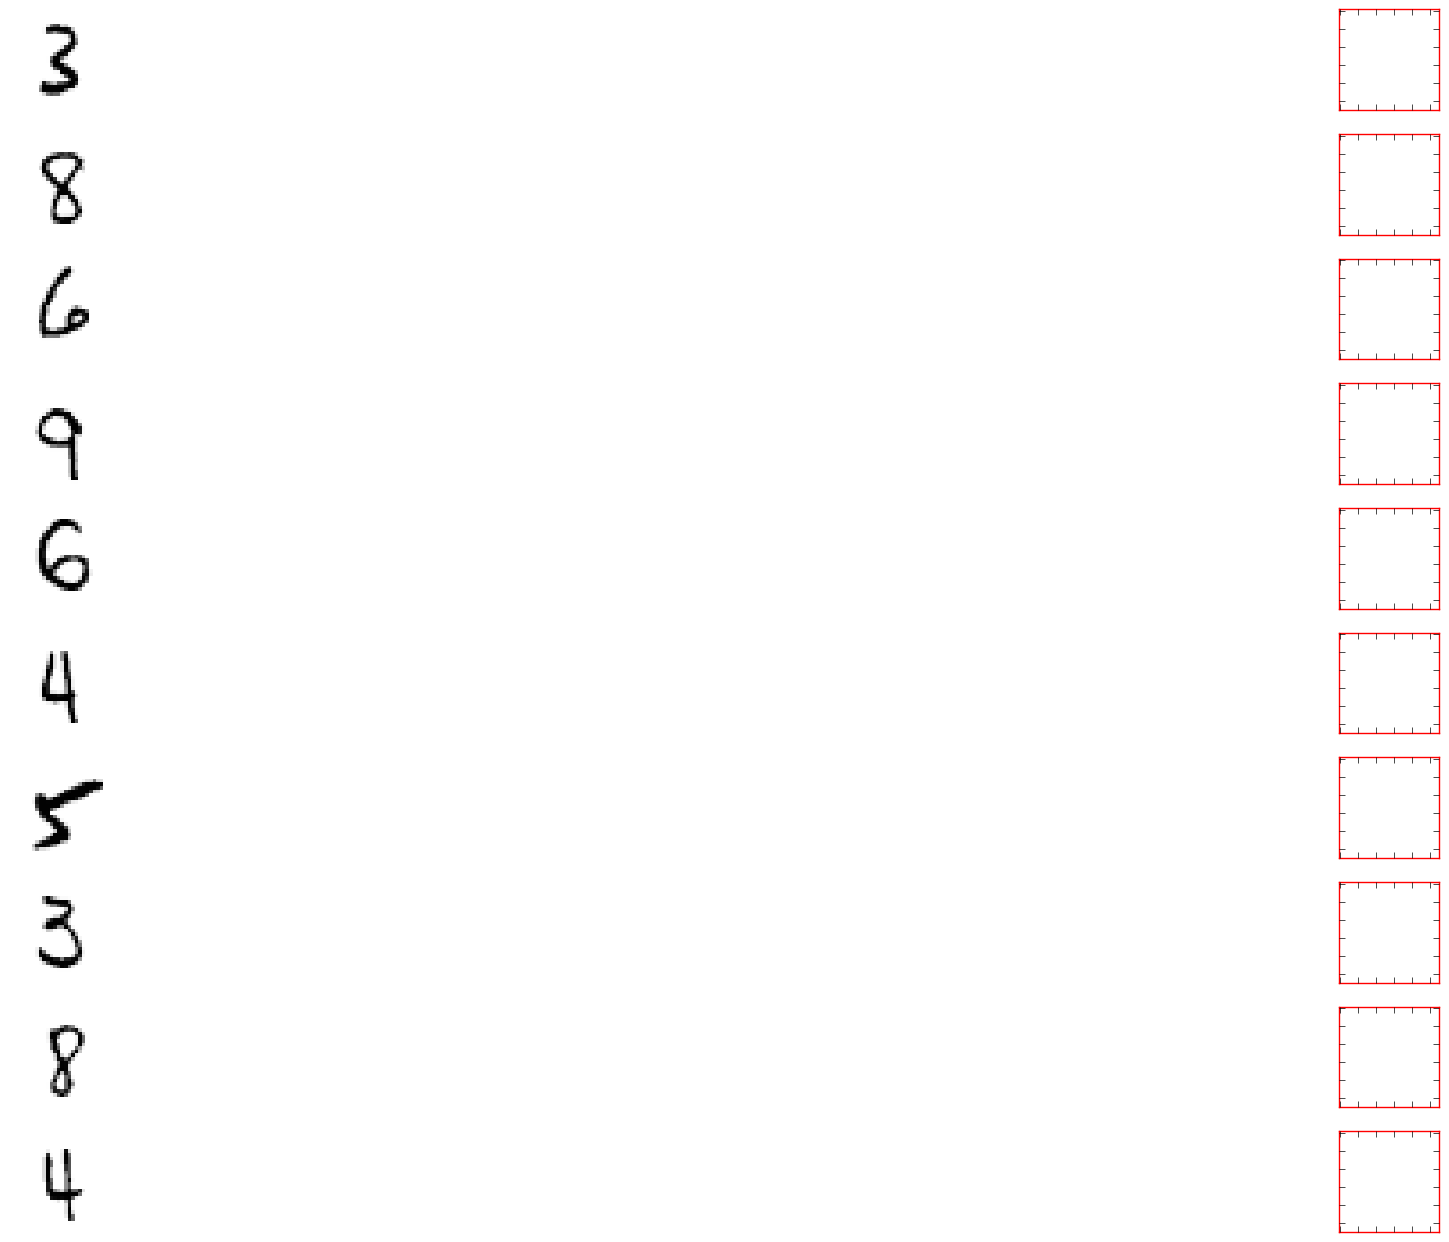
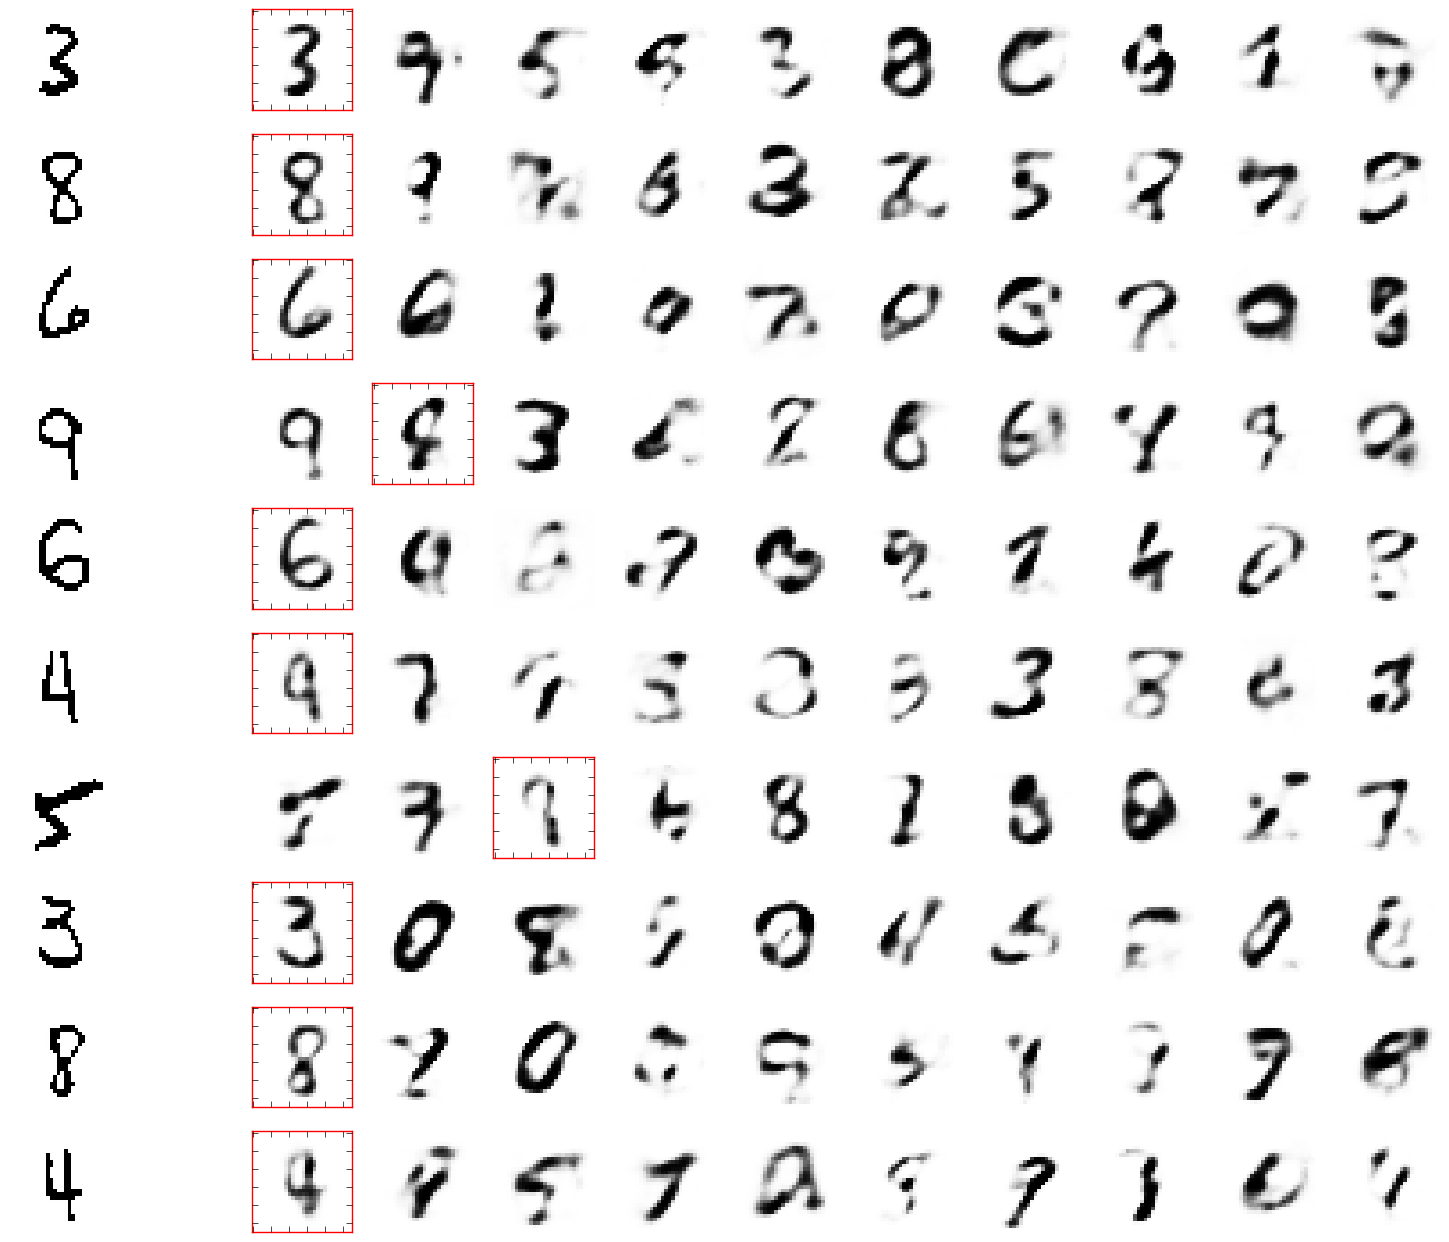
GMM model.

diff --git a/train.py b/train.py
@@ -46,8 +46,8 @@ def load_data_frames(filename):
     (data_train_X, _), \
         (data_valid_X, _), _ = data.load('data/mnist.pkl.gz')
 
-    train_X = theano.shared(data_train_X)
-    valid_X = theano.shared(data_valid_X)
+    train_X = theano.shared(data_train_X.astype(np.float32))
+    valid_X = theano.shared(data_valid_X.astype(np.float32))
     return train_X, valid_X
 
 
@@ -62,16 +62,25 @@ def prepare_functions(input_size, hidden_size, latent_size, step_count,
         P.W_decoder_input_0.get_value() * 10)
 
     X = T.matrix('X')
-    step_count = T.iscalar('step_count')
-    Z_means, Z_stds, alphas, \
-        X_mean, log_pi_samples = encode_decode(X, step_count=step_count)
-    recon_loss = T.mean(model.recon_loss(X, X_mean, log_pi_samples), axis=0)
-    reg_loss = T.mean(model.reg_loss(Z_means, Z_stds, alphas), axis=0)
-    vlb = recon_loss + reg_loss
-
+    step_count = 10
     parameters = P.values()
-    cost = vlb + 1e-3 * sum(T.sum(T.sqr(w))
-                            for w in parameters)
+
+    cost_symbs = []
+    for s in xrange(step_count):
+        Z_means, Z_stds, alphas, \
+            X_mean, log_pi_samples = encode_decode(X, step_count=s + 1)
+        batch_recon_loss, log_p = model.recon_loss(X, X_mean, log_pi_samples)
+        recon_loss = T.mean(batch_recon_loss, axis=0)
+        reg_loss = T.mean(model.reg_loss(Z_means, Z_stds, alphas), axis=0)
+        vlb = recon_loss + reg_loss
+        corr = T.mean(T.eq(T.argmax(log_p, axis=0),
+                      T.argmax(log_pi_samples, axis=0)), axis=0)
+        cost = cost_symbs.append(vlb)
+
+    avg_cost = sum(cost_symbs) / step_count
+    cost = avg_cost + 1e-3 * sum(T.sum(T.sqr(w))
+                                 for w in parameters)
+
     gradients = updates.clip_deltas(T.grad(cost, wrt=parameters), 5)
 
     print "Updated parameters:"
@@ -79,9 +88,9 @@ def prepare_functions(input_size, hidden_size, latent_size, step_count,
     idx = T.iscalar('idx')
 
     train = theano.function(
-        inputs=[idx, step_count],
+        inputs=[idx],
         outputs=[vlb, recon_loss, reg_loss,
-                 T.max(T.argmax(log_pi_samples, axis=0))],
+                 T.max(T.argmax(log_pi_samples, axis=0)), corr],
         updates=updates.adam(parameters, gradients,
                              learning_rate=1e-4),
         givens={X: train_X[idx * batch_size: (idx + 1) * batch_size]}
@@ -90,7 +99,7 @@ def prepare_functions(input_size, hidden_size, latent_size, step_count,
     validate = theano.function(
         inputs=[],
         outputs=vlb,
-        givens={X: valid_X, step_count: np.int32(10)}
+        givens={X: valid_X}
     )
 
     sample = theano.function(
@@ -98,7 +107,7 @@ def prepare_functions(input_size, hidden_size, latent_size, step_count,
         outputs=[X, X_mean,
                  T.argmax(log_pi_samples, axis=0),
                  T.exp(log_pi_samples)],
-        givens={X: valid_X[:10], step_count: np.int32(10)}
+        givens={X: valid_X[:10]}
     )
 
     return train, validate, sample
@@ -134,10 +143,8 @@ if __name__ == "__main__":
             print np.sum(pi_samples, axis=0)
         else:
             print
-
         np.random.shuffle(train_X_data)
         train_X.set_value(train_X_data)
         for i in xrange(batches):
-            steps = np.random.randint(1, 11)
-            vals = train(i, 10)
+            vals = train(i)
             print ' '.join(map(str, vals))

diff --git a/model.py b/model.py
@@ -20,10 +20,22 @@ def build(P, input_size, hidden_size, latent_size):
     def encode_decode(X, step_count):
         sample_log_pi = stick_break_vae.build_sample_pi(size=step_count)
         z_samples, z_means, z_stds, alphas = encode(X, step_count)
-        log_pi_samples = sample_log_pi(alphas.T).T
+        log_pi_samples = sharpen(sample_log_pi(alphas.T).T, 4)
         X_recon = decode(z_samples)
         return z_means, z_stds, alphas, X_recon, log_pi_samples
     return encode_decode
+
+
+def sharpen(log_probs, factor, axis=0):
+    if factor == 1:
+        return log_probs
+    log_scaled = log_probs * factor
+    k = T.max(log_scaled, axis=axis, keepdims=True)
+    log_scaled_normed = log_scaled - k
+    scaled = T.exp(log_scaled_normed)
+    norm_scaled = (log_scaled_normed -
+                   T.log(T.sum(scaled, axis=axis, keepdims=True)))
+    return norm_scaled
 
 
 def build_encoder(P, input_size, hidden_size, latent_size):
@@ -66,7 +78,7 @@ def build_encoder(P, input_size, hidden_size, latent_size):
             _, curr_z_mean, curr_z_std = gaussian_out(hidden)
             z_mean = curr_z_mean
             z_std = curr_z_std
-            z_sample = z_mean + eps * z_std + prev_latent
+            z_sample = z_mean + eps * z_std
             return z_sample, hidden, cell, z_mean, z_std
 
         [z_samples, hiddens, cells, z_means, z_stds], _ = theano.scan(
@@ -80,7 +92,7 @@ def build_encoder(P, input_size, hidden_size, latent_size):
         )
 
         alphas = T.exp(T.dot(hiddens, P.w_encoder_v) +
-                                 P.b_encoder_v + 5)
+                       P.b_encoder_v + 5)
         return z_samples, z_means, z_stds, alphas
 
     return encode
@@ -106,14 +118,14 @@ def reg_loss(z_means, z_stds, alphas):
     gaussian_loss = T.sum(
             vae.kl_divergence(z_means, z_stds, 0, 1), axis=0)
     stick_break_loss = T.sum(
-            stick_break_vae.kl_divergence(alphas), axis=0)
+            stick_break_vae.kl_divergence(alphas[:-1]), axis=0)
     return gaussian_loss + stick_break_loss
 
 
 def recon_loss(X, X_mean, log_pi_samples):
-    log_p = T.sum(X * T.log(X_mean) + (1 - X) * T.log(1 - X_mean), axis=-1)
-    k_p = T.max(log_p, axis=0)
-    k_pi = T.max(log_pi_samples, axis=0)
-    return -(T.log(T.sum(T.exp(
-                log_p + log_pi_samples - k_p - k_pi), axis=0)) +
-             k_p + k_pi)
+    log_p = T.sum(T.switch(X, T.log(X_mean), T.log(1 - X_mean)), axis=-1)
+    k = T.max(log_p + log_pi_samples, axis=0)
+    norm_p = T.exp(log_p + log_pi_samples - k)
+    return -(T.log(T.sum(
+                T.switch(norm_p < 1e-6, 0, norm_p),
+             axis=0)) + k), log_p

diff --git a/data.py b/data.py
@@ -5,4 +5,6 @@ import cPickle as pickle
 def load(filename):
     with gzip.open(filename) as f:
         train_set, valid_set, test_set = pickle.load(f)
-        return train_set, valid_set, test_set
+        return ((train_set[0] > 0.5, train_set[1]),
+                (valid_set[0] > 0.5, valid_set[1]),
+                (test_set[0] > 0.5, test_set[1]))
